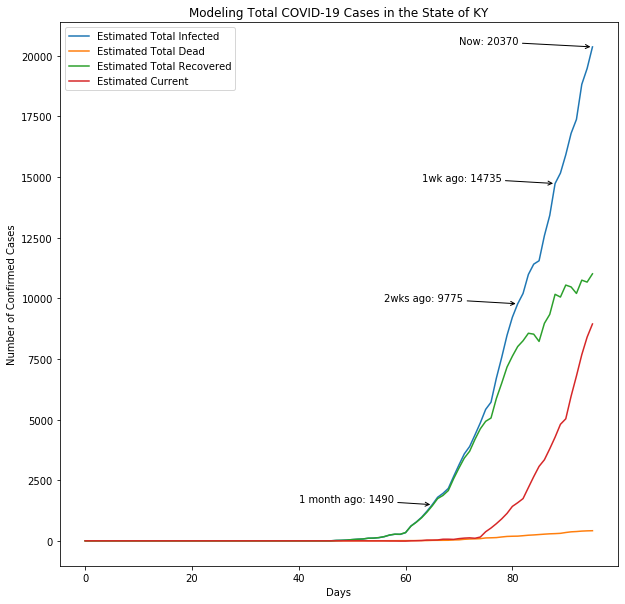
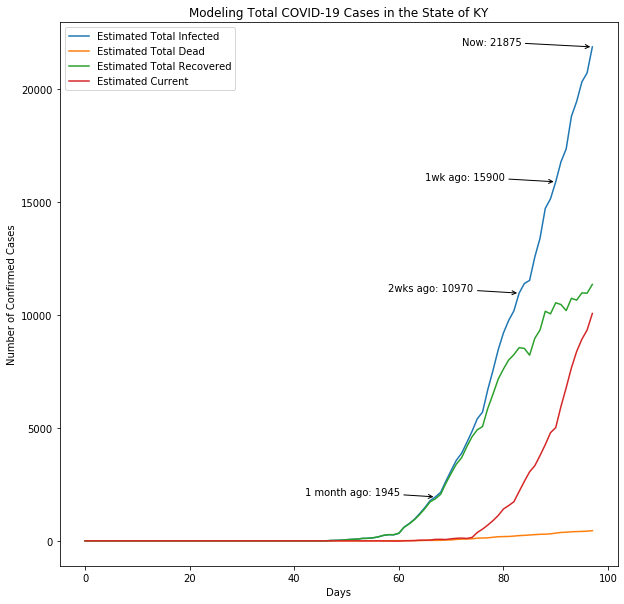
Update COVID for 4/28

diff --git a/pages/covid.html b/pages/covid.html
@@ -30,7 +30,7 @@
                 <li>Recovered cases are the total infected minus the total infected cases two weeks ago minus the total infected cases today multiplied by the mortality rate. </li>
                 <li>Mortality rate is used based on the deaths divided by total cases. When used in calculating other values, the most recent estimate is used, as most data is based on cumulative numbers.</li>
             </ol>
-            <p class="project">To the right are visualizations I was able to come up as of April 27, 2020. They will be periodically updated as new data comes in.</p>
+            <p class="project">To the right are visualizations I was able to come up as of April 28, 2020. They will be periodically updated as new data comes in.</p>
             <p class="sources">Sources for data: <br>
 <a href="https://usafacts.org/visualizations/coronavirus-covid-19-spread-map/" target="_blank">Infection & Death Counts</a><br>
 <a href="https://www.who.int/news-room/q-a-detail/q-a-similarities-and-differences-covid-19-and-influenza" target="_blank">WHO</a>
